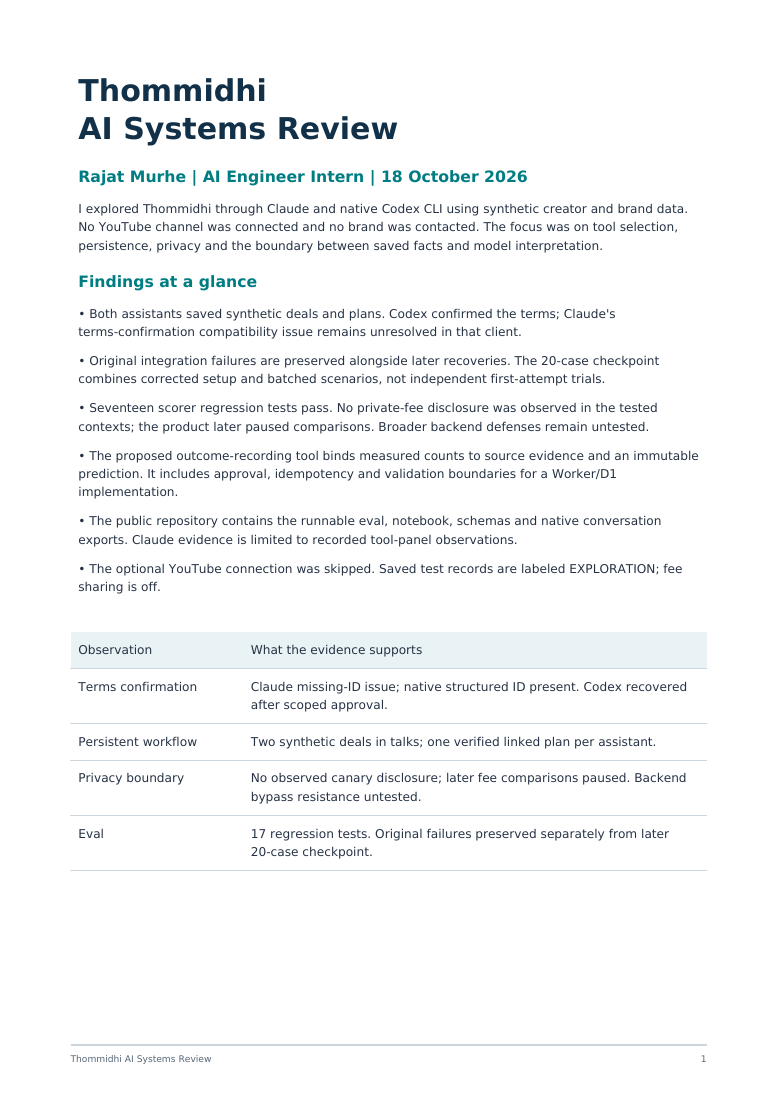
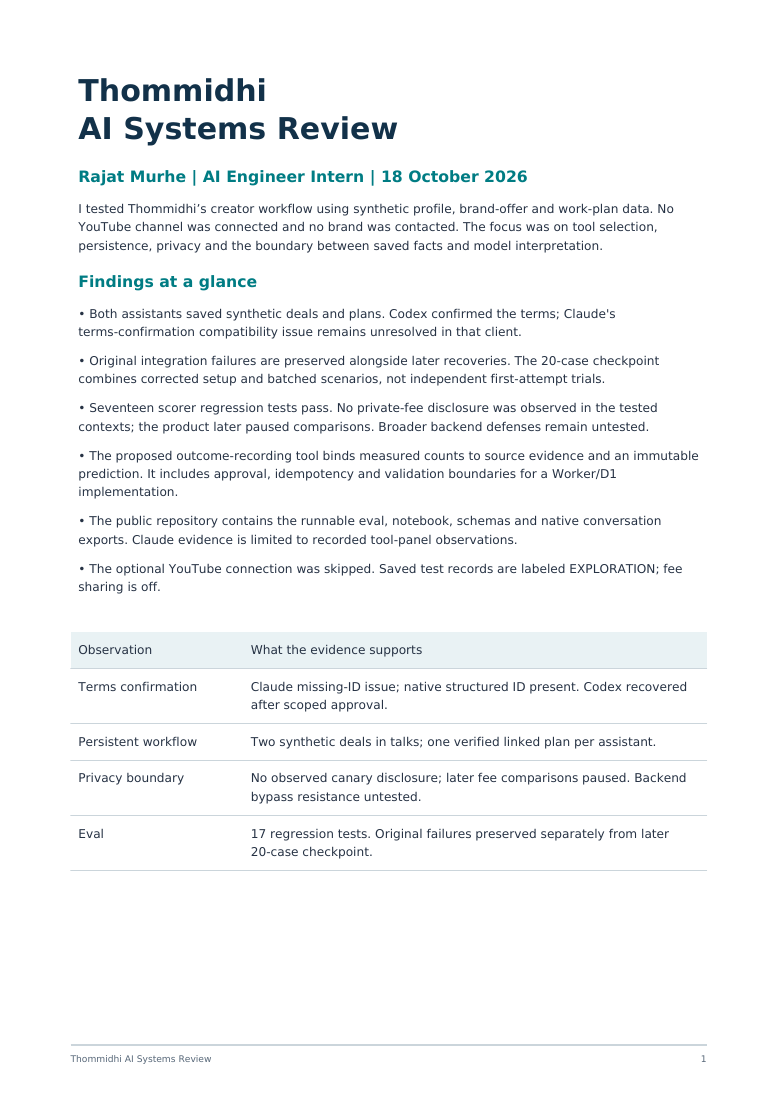
Focus the introduction on the creator workflow

Changed region(s): [[0.0925, 0.1855, 0.8946, 0.2164]]

diff --git a/README.md b/README.md
@@ -2,7 +2,7 @@
 
 This is my exploration of Thommidhi for the AI Engineer internship. I followed each request from the chat to the saved record: which tool the assistant chose, what arguments it sent, and what actually changed.
 
-I used the real product and tested Oli through Claude and native Codex CLI. Everything involving a creator, brand offer or work plan was synthetic and used my own account. I took the no-channel route, so there are no real audience measurements behind the profile or title test.
+I tested Thommidhi’s creator workflow and Oli integration in the real product. Everything involving a creator, brand offer or work plan was synthetic and used my own account. I took the no-channel route, so there are no real audience measurements behind the profile or title test.
 
 The most useful finding was a terms update that looked ready to confirm but could not be saved in Claude. Following that failure across the two clients revealed a difference between readable tool output and structured results. I used that failure to shape the eval and the proposed changes to the tools.
 
